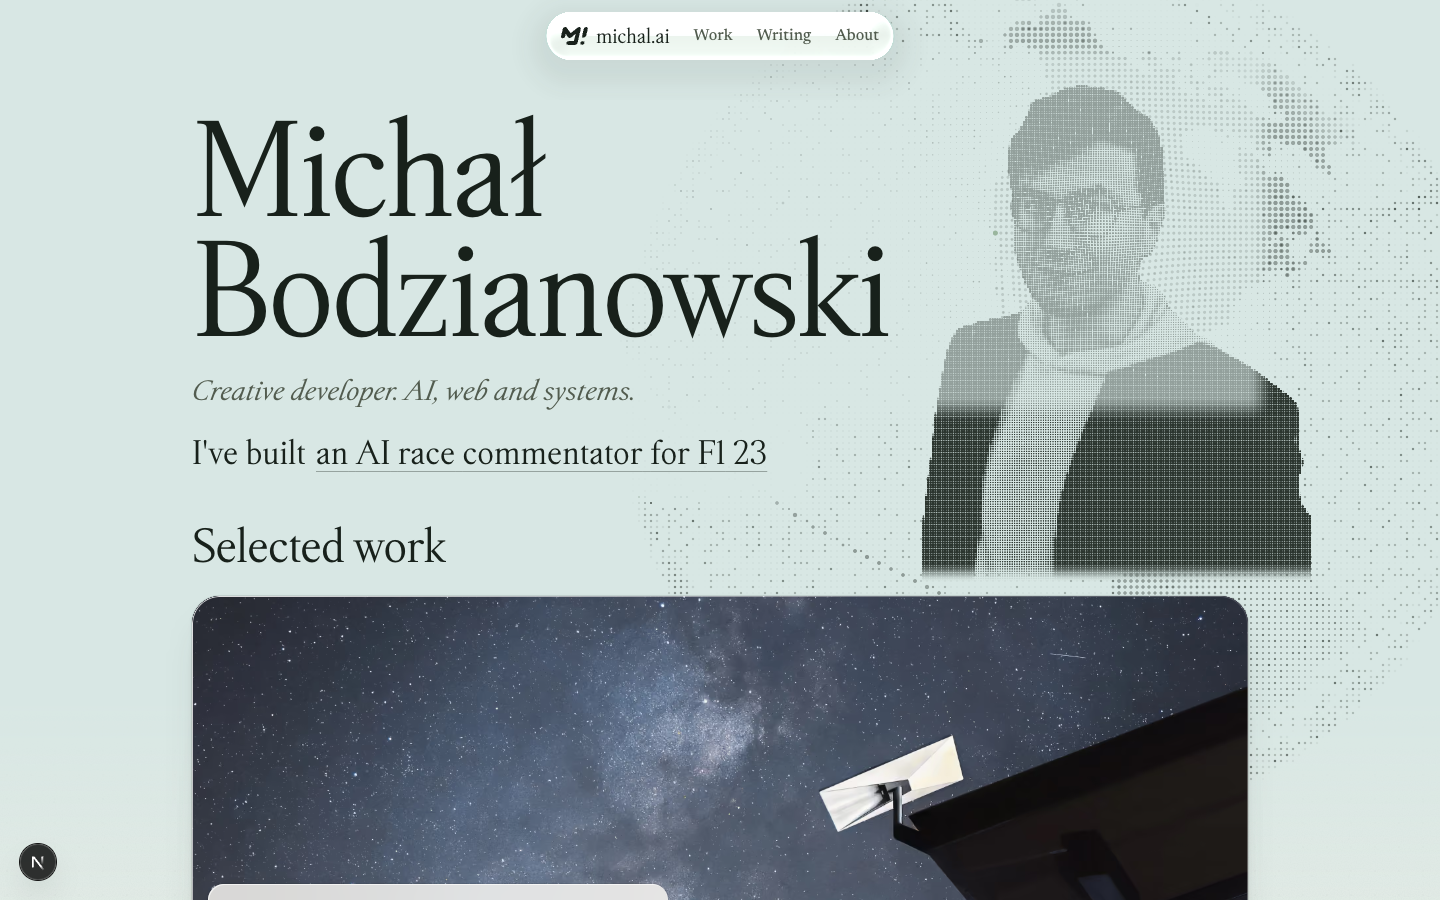
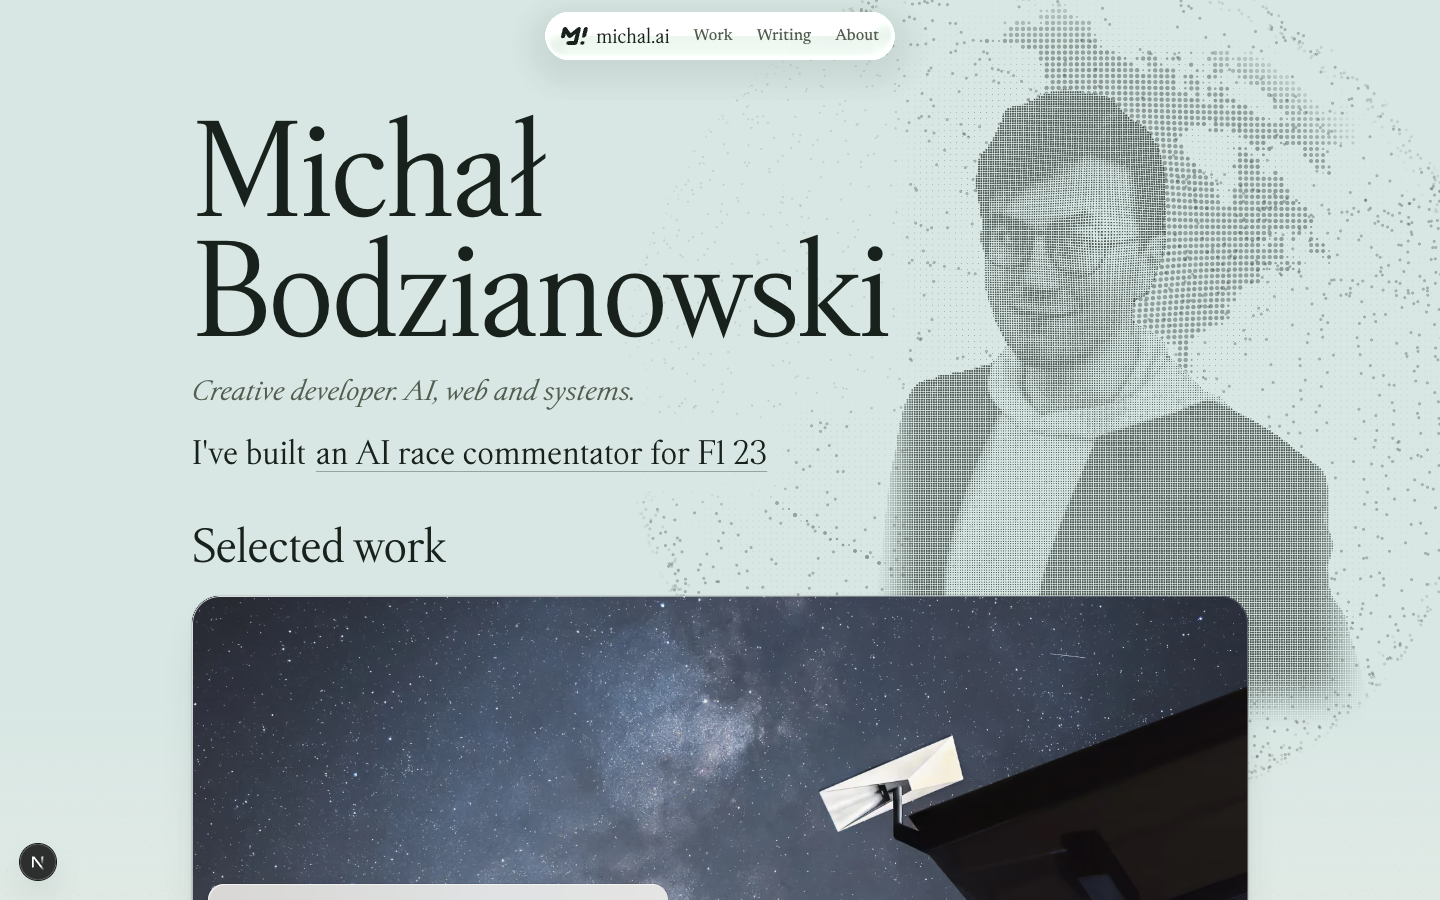
Hero globe: fix portrait seam, lighter tone, figure behind card, side fades, bigger phone circle, findable satellites, shots

diff --git a/apps/michal-ai/components/presence/HeroGlobe.tsx b/apps/michal-ai/components/presence/HeroGlobe.tsx
@@ -17,10 +17,10 @@ const DEG_PER_S = 2.4
 const START = { lat: 18, lon: -100 } // must match GLOBE_FALLBACK_VIEW
 const FALLBACK_FRACTION = GLOBE_FALLBACK_VIEW.radius / (GLOBE_FALLBACK_VIEW.size / 2)
 /** Constellation dot strength (of the ink alpha) and fade-in time. */
-const SAT_ALPHA = 0.6
+const SAT_ALPHA = 0.7
 const SAT_FADE_MS = 1600
 /** Keep every n-th satellite on small canvases. */
-const thinFor = (cssSize: number) => (cssSize < 520 ? 2 : 1)
+const thinFor = (cssSize: number) => (cssSize < 520 ? 3 : 2)
 /** The phrase's own enter animation: 160 ms delay + 320 ms, cubic-bezier(0.22, 1, 0.36, 1) (app/styles/craft.css, --ease-out-soft). */
 const CUT_MS = 480
 const PUSH_RADIUS = 100 // CSS px
@@ -96,7 +96,7 @@ export function HeroGlobe({ pins = PRESENCE_PINS, mock = false, variant = 'slot'
     sat: null as Packed | null, satFrom: 0,
     portrait: null as null | { aspect: number; from: number }, pspec: null as PortraitSpec | null, pstr: 0, globeA: 0.4,
     cut: [] as Cut[], cutFeather: 24, anim: null as null | { from: Cut[]; to: Cut[]; t0: number },
-    fine: false, pin: null as null | [number, number],
+    freeze: false, fine: false, pin: null as null | [number, number],
     px: { x: 0, v: 0 }, py: { x: 0, v: 0 }, pk: { x: 0, v: 0 }, tx: 0, ty: 0, over: false, lastMove: 0,
   })
   st.current.mode = mode
@@ -132,12 +132,18 @@ export function HeroGlobe({ pins = PRESENCE_PINS, mock = false, variant = 'slot'
         ? [live.querySelector<HTMLElement>('.hook__stem'), live.querySelector<HTMLElement>('.hook__item[data-current] .hook__link')].filter((n): n is HTMLElement => !!n)
         : [t]
       let l = Infinity, tp = Infinity, rt = -Infinity, bt = -Infinity
+      // Union of the actual text runs, not the element boxes: block-level lines (the name's two spans) would otherwise
+      // report the full container width and dim everything to the right of the text.
       for (const n of parts) {
-        const range = document.createRange()
-        range.selectNodeContents(n)
-        const r = range.getBoundingClientRect()
-        if (!r.width || !r.height) continue
-        l = Math.min(l, r.left); tp = Math.min(tp, r.top); rt = Math.max(rt, r.right); bt = Math.max(bt, r.bottom)
+        const walker = document.createTreeWalker(n, NodeFilter.SHOW_TEXT)
+        for (let tn = walker.nextNode(); tn; tn = walker.nextNode()) {
+          if (!tn.textContent?.trim()) continue
+          const range = document.createRange()
+          range.selectNodeContents(tn)
+          const r = range.getBoundingClientRect()
+          if (!r.width || !r.height) continue
+          l = Math.min(l, r.left); tp = Math.min(tp, r.top); rt = Math.max(rt, r.right); bt = Math.max(bt, r.bottom)
+        }
       }
       if (!Number.isFinite(l)) return
       const dim = Number(t.dataset.heroText) || 0.15
@@ -170,26 +176,31 @@ export function HeroGlobe({ pins = PRESENCE_PINS, mock = false, variant = 'slot'
     let cellW: number
     let circle = false
     let crop: PortraitSpec['crop'] = [0, 0, 1, 1]
-    let strength = 0.9
+    let strength = 0.72
     let edge = 0
+    let boost = 1
     if (vw >= FIGURE_MIN_WIDTH) {
       const hb = document.getElementById('work-h')?.getBoundingClientRect()
-      bottom = hb ? hb.bottom + 10 : w.top + w.height * 0.7
-      height = Math.max(240, Math.min(600, bottom - 64))
+      // He runs down behind the first card (the card is on top and crops him): bottom is 150px below the heading.
+      const anchor = hb ? hb.bottom + 10 : w.top + w.height * 0.7
+      bottom = anchor + 150
+      height = Math.max(300, Math.min(760, bottom - 64))
       width = height * 0.75
       left = w.left + w.width * 0.54 - 0.44 * width
       cellW = 3.2
-      edge = 20 * sc
+      edge = 70 * sc // the part below the card's right edge fades out in dots
     } else {
       const h1 = document.querySelector<HTMLElement>('h1[data-hero-text]')?.getBoundingClientRect()
       const box = document.querySelector<HTMLElement>('h1[data-hero-text]')?.parentElement?.getBoundingClientRect()
-      const D = Math.max(64, Math.min(96, Math.round(vw * 0.2)))
+      const D = Math.max(72, Math.min(104, Math.round(vw * 0.26)))
       width = height = D
-      left = (box?.right ?? vw - 16) - D
-      bottom = (h1?.top ?? 84) - 10 + D
+      left = Math.min((box?.right ?? vw - 16) + 6, vw - 10) - D
+      bottom = 60 + D
       cellW = 1.7
       circle = true
-      crop = [0.148, 0.1, 0.688, 0.505]
+      boost = 1.9
+      // forehead to chin fills about 80% of the circle
+      crop = [0.083, 0.033, 0.709, 0.503]
       strength = Math.min(1, s.globeA + 0.35)
     }
     // Glyphs where they resolve (desktop); density dots on a square grid in the small circle, where a glyph would be a smudge.
@@ -207,6 +218,7 @@ export function HeroGlobe({ pins = PRESENCE_PINS, mock = false, variant = 'slot'
       dots,
       strength,
       edge,
+      boost,
       push: { radius: 90 * s.dpr, max: 5 * s.dpr },
     }
   }
@@ -218,7 +230,7 @@ export function HeroGlobe({ pins = PRESENCE_PINS, mock = false, variant = 'slot'
     const dt = Math.min(0.05, (now - s.last) / 1000)
     s.last = now
     const gl = s.mode === 'gl'
-    if (!s.reduced && s.active) s.lon += DEG_PER_S * dt
+    if (!s.reduced && s.active && !s.freeze) s.lon += DEG_PER_S * dt
     const lat = gl ? START.lat : GLOBE_FALLBACK_VIEW.lat
     const lon = gl ? s.lon : GLOBE_FALLBACK_VIEW.lon
     if (s.r && s.anim) {
@@ -280,6 +292,8 @@ export function HeroGlobe({ pins = PRESENCE_PINS, mock = false, variant = 'slot'
     const el = wrap.current
     if (!el) return
     st.current.reduced = window.matchMedia('(prefers-reduced-motion: reduce)').matches
+    // Dev only: ?spin=0 freezes the decorative spin (satellites keep moving in real time), for motion screenshots.
+    if (process.env.NODE_ENV !== 'production') st.current.freeze = new URLSearchParams(window.location.search).get('spin') === '0'
     let near = false
     const update = () => setActive(near && document.visibilityState === 'visible')
     const io = new IntersectionObserver(([e]) => {
@@ -341,7 +355,7 @@ export function HeroGlobe({ pins = PRESENCE_PINS, mock = false, variant = 'slot'
     const apply = () => {
       const s = st.current
       s.size = el.clientWidth
-      s.dpr = Math.min(1.5, window.devicePixelRatio || 1)
+      s.dpr = Math.min(s.size < 600 ? 2 : 1.5, window.devicePixelRatio || 1)
       s.r?.resize(s.size, s.dpr)
       const ga = parseFloat(getComputedStyle(el).getPropertyValue('--hero-globe-opacity'))
       if (Number.isFinite(ga)) s.globeA = ga

diff --git a/apps/michal-ai/components/presence/globe/renderer.ts b/apps/michal-ai/components/presence/globe/renderer.ts
@@ -136,7 +136,7 @@ in float aB;  // rate of the rate (drag), rad/s^2
 uniform float uT; uniform float uGmst; uniform mat3 uRot; uniform vec2 uRes; uniform float uR; uniform float uPitch;
 uniform float uThin; uniform float uAlpha;
 ${COMMON}
-out float vA; out float vDim;
+out float vA; out float vDim; out vec2 vOff;
 const float MU = 398600.8; const float RE = 6378.135; const float J2 = .001082616; const float TAU = 6.2831853;
 void main(){
   vA = 0.; vDim = 1.;
@@ -156,23 +156,27 @@ void main(){
   vis *= mix(.5, 1., smoothstep(-.3, .3, v.z));
   vis *= 1. - smoothstep(1.04, 1.062, rho);          // inside the canvas margin
   vec2 px = .5 * uRes + v.xy * uR;
-  vec2 c = (floor(px / uPitch) + .5) * uPitch;
-  vDim = dimAt(c);
-  if (uPtr.z > 0.) c += pushAt(c);
+  vDim = dimAt(px);
+  if (uPtr.z > 0.) px += pushAt(px);
+  // off the grid: the sprite sits on the nearest whole pixel, the dot is drawn at the exact sub-pixel position inside it
+  vec2 c = floor(px) + .5;
+  vOff = px - c;
   vA = vis * uAlpha * vDim;
   gl_Position = vec4(c / uRes * 2. - 1., 0., 1.);
-  gl_PointSize = uPitch;
+  gl_PointSize = ceil(uPitch * .6) * 2. + 2.;
 }`
 
 const SAT_FS = `#version 300 es
 precision highp float;
 uniform float uPitch; uniform vec3 uInk;
-in float vA; in float vDim;
+in float vA; in float vDim; in vec2 vOff;
 out vec4 o;
 void main(){
   if (vA <= 0.) discard;
-  float d = length((gl_PointCoord - .5) * uPitch);
-  float rad = uPitch * .2 * (.5 + .5 * vDim);
+  vec2 p = (gl_PointCoord - .5) * (ceil(uPitch * .6) * 2. + 2.);
+  p.y = -p.y;
+  float d = length(p - vOff);
+  float rad = uPitch * .25 * (.5 + .5 * vDim);
   float a = (1. - smoothstep(rad - .55, rad + .55, d)) * vA;
   o = vec4(uInk * a, a);
 }`
@@ -184,7 +188,7 @@ const P_FS = `#version 300 es
 precision highp float;
 uniform sampler2D uPic; uniform sampler2D uAtlas;
 uniform vec4 uRect; uniform vec4 uCrop; uniform vec2 uCell; uniform float uGlyphs;
-uniform float uCircle; uniform float uMode; uniform float uStr; uniform float uDots; uniform float uEdge; uniform vec3 uInk;
+uniform float uCircle; uniform float uMode; uniform float uStr; uniform float uDots; uniform float uEdge; uniform float uBoost; uniform vec3 uInk;
 ${COMMON}
 out vec4 o;
 vec2 picUV(vec2 p){ vec2 t = (p - uRect.xy) / uRect.zw; t.y = 1. - t.y; return mix(uCrop.xy, uCrop.zw, t); }
@@ -199,7 +203,7 @@ void main(){
   if (rel.x < 0. || rel.y < 0. || rel.x > uRect.z || rel.y > uRect.w) discard;
   float edge = uEdge > 0. ? smoothstep(0., uEdge, rel.y) : 1.;
   if (uMode < .5) {
-    float a = uCircle > .5 ? circ(f) : smoothstep(.12, .8, texture(uPic, picUV(f)).a);
+    float a = uCircle > .5 ? circ(f) : smoothstep(.12, .8, texture(uPic, picUV(f)).a) * smoothstep(0., .1, rel.x / uRect.z) * (1. - smoothstep(.86, 1., rel.x / uRect.z));
     o = vec4(0., 0., 0., a * edge * uStr);
     return;
   }
@@ -213,10 +217,15 @@ void main(){
   if (local.x < 0. || local.y < 0. || local.x >= uCell.x || local.y >= uCell.y) discard;
   vec2 q = .25 * uCell;
   vec4 s = texture(uPic, picUV(centre)) * .4 + .15 * (texture(uPic, picUV(centre + vec2(q.x, q.y))) + texture(uPic, picUV(centre + vec2(-q.x, q.y))) + texture(uPic, picUV(centre + vec2(q.x, -q.y))) + texture(uPic, picUV(centre + vec2(-q.x, -q.y))));
-  float m = smoothstep(.3, .75, s.a) * circ(centre);
+  vec2 uvc = (centre - uRect.xy) / uRect.zw;
+  // the figure's picture ends at the texture edge (sleeve, shoulder): fade the sides so there is no straight cut
+  float side = uCircle > .5 ? 1. : smoothstep(0., .1, uvc.x) * (1. - smoothstep(.86, 1., uvc.x));
+  float m = smoothstep(.3, .75, s.a) * circ(centre) * side;
   if (m <= .01) discard;
   float lum = s.r / max(s.a, .001);
   float d = clamp(pow(1. - clamp(lum, 0., 1.), .8) * 1.5 + .05, 0., 1.);
+  d = clamp((d - .5) * uBoost + .5, 0., 1.);
+  d *= uCircle > .5 ? .85 : .6;                                   // darkest areas stay an open texture (coverage about 55-60%)
   float cov;
   if (uDots > .5) {
     float r = min(uCell.x, uCell.y) * (.12 + .46 * d);
@@ -225,7 +234,8 @@ void main(){
     float gi = floor(d * (uGlyphs - 1.) + .5);
     cov = texture(uAtlas, vec2((gi + local.x / uCell.x) / uGlyphs, 1. - local.y / uCell.y)).a;
   }
-  float a = cov * m * uStr * dimAt(centre) * edge;
+  float dm = uCircle > .5 ? mix(1., dimAt(centre), .35) : dimAt(centre);
+  float a = cov * m * uStr * dm * edge;
   o = vec4(uInk * a, a);
 }`
 
@@ -274,6 +284,8 @@ export interface PortraitSpec {
   strength: number
   /** fade the bottom edge over this many canvas px (0 = hard) */
   edge: number
+  /** contrast about mid-tone (1 = none) */
+  boost: number
   /** pointer push for this layer, canvas px */
   push: { radius: number; max: number }
 }
@@ -339,7 +351,7 @@ export function createRenderer(canvas: HTMLCanvasElement, rings: Ring[], palette
     g.linkProgram(pprog)
     if (!g.getProgramParameter(pprog, g.LINK_STATUS)) throw new Error(g.getProgramInfoLog(pprog) ?? 'link')
     const PU = (n: string) => g.getUniformLocation(pprog, n)
-    const pu = { pic: PU('uPic'), atlas: PU('uAtlas'), rect: PU('uRect'), crop: PU('uCrop'), cell: PU('uCell'), glyphs: PU('uGlyphs'), circle: PU('uCircle'), mode: PU('uMode'), str: PU('uStr'), dots: PU('uDots'), edge: PU('uEdge'), ink: PU('uInk'), box: PU('uBox[0]'), dim: PU('uDim[0]'), feather: PU('uFeather'), ptr: PU('uPtr'), push: PU('uPush') }
+    const pu = { pic: PU('uPic'), atlas: PU('uAtlas'), rect: PU('uRect'), crop: PU('uCrop'), cell: PU('uCell'), glyphs: PU('uGlyphs'), circle: PU('uCircle'), mode: PU('uMode'), str: PU('uStr'), dots: PU('uDots'), edge: PU('uEdge'), boost: PU('uBoost'), ink: PU('uInk'), box: PU('uBox[0]'), dim: PU('uDim[0]'), feather: PU('uFeather'), ptr: PU('uPtr'), push: PU('uPush') }
     let picTex: WebGLTexture | null = null
     let atlasTex: WebGLTexture | null = null
     let atlasN = 1
@@ -491,6 +503,7 @@ export function createRenderer(canvas: HTMLCanvasElement, rings: Ring[], palette
           g.uniform1f(pu.str, pt.strength)
           g.uniform1f(pu.dots, pt.dots ? 1 : 0)
           g.uniform1f(pu.edge, pt.edge)
+          g.uniform1f(pu.boost, pt.boost)
           g.uniform3fv(pu.ink, palette.ink)
           g.uniform4fv(pu.box, boxes)
           g.uniform1fv(pu.dim, dims)
